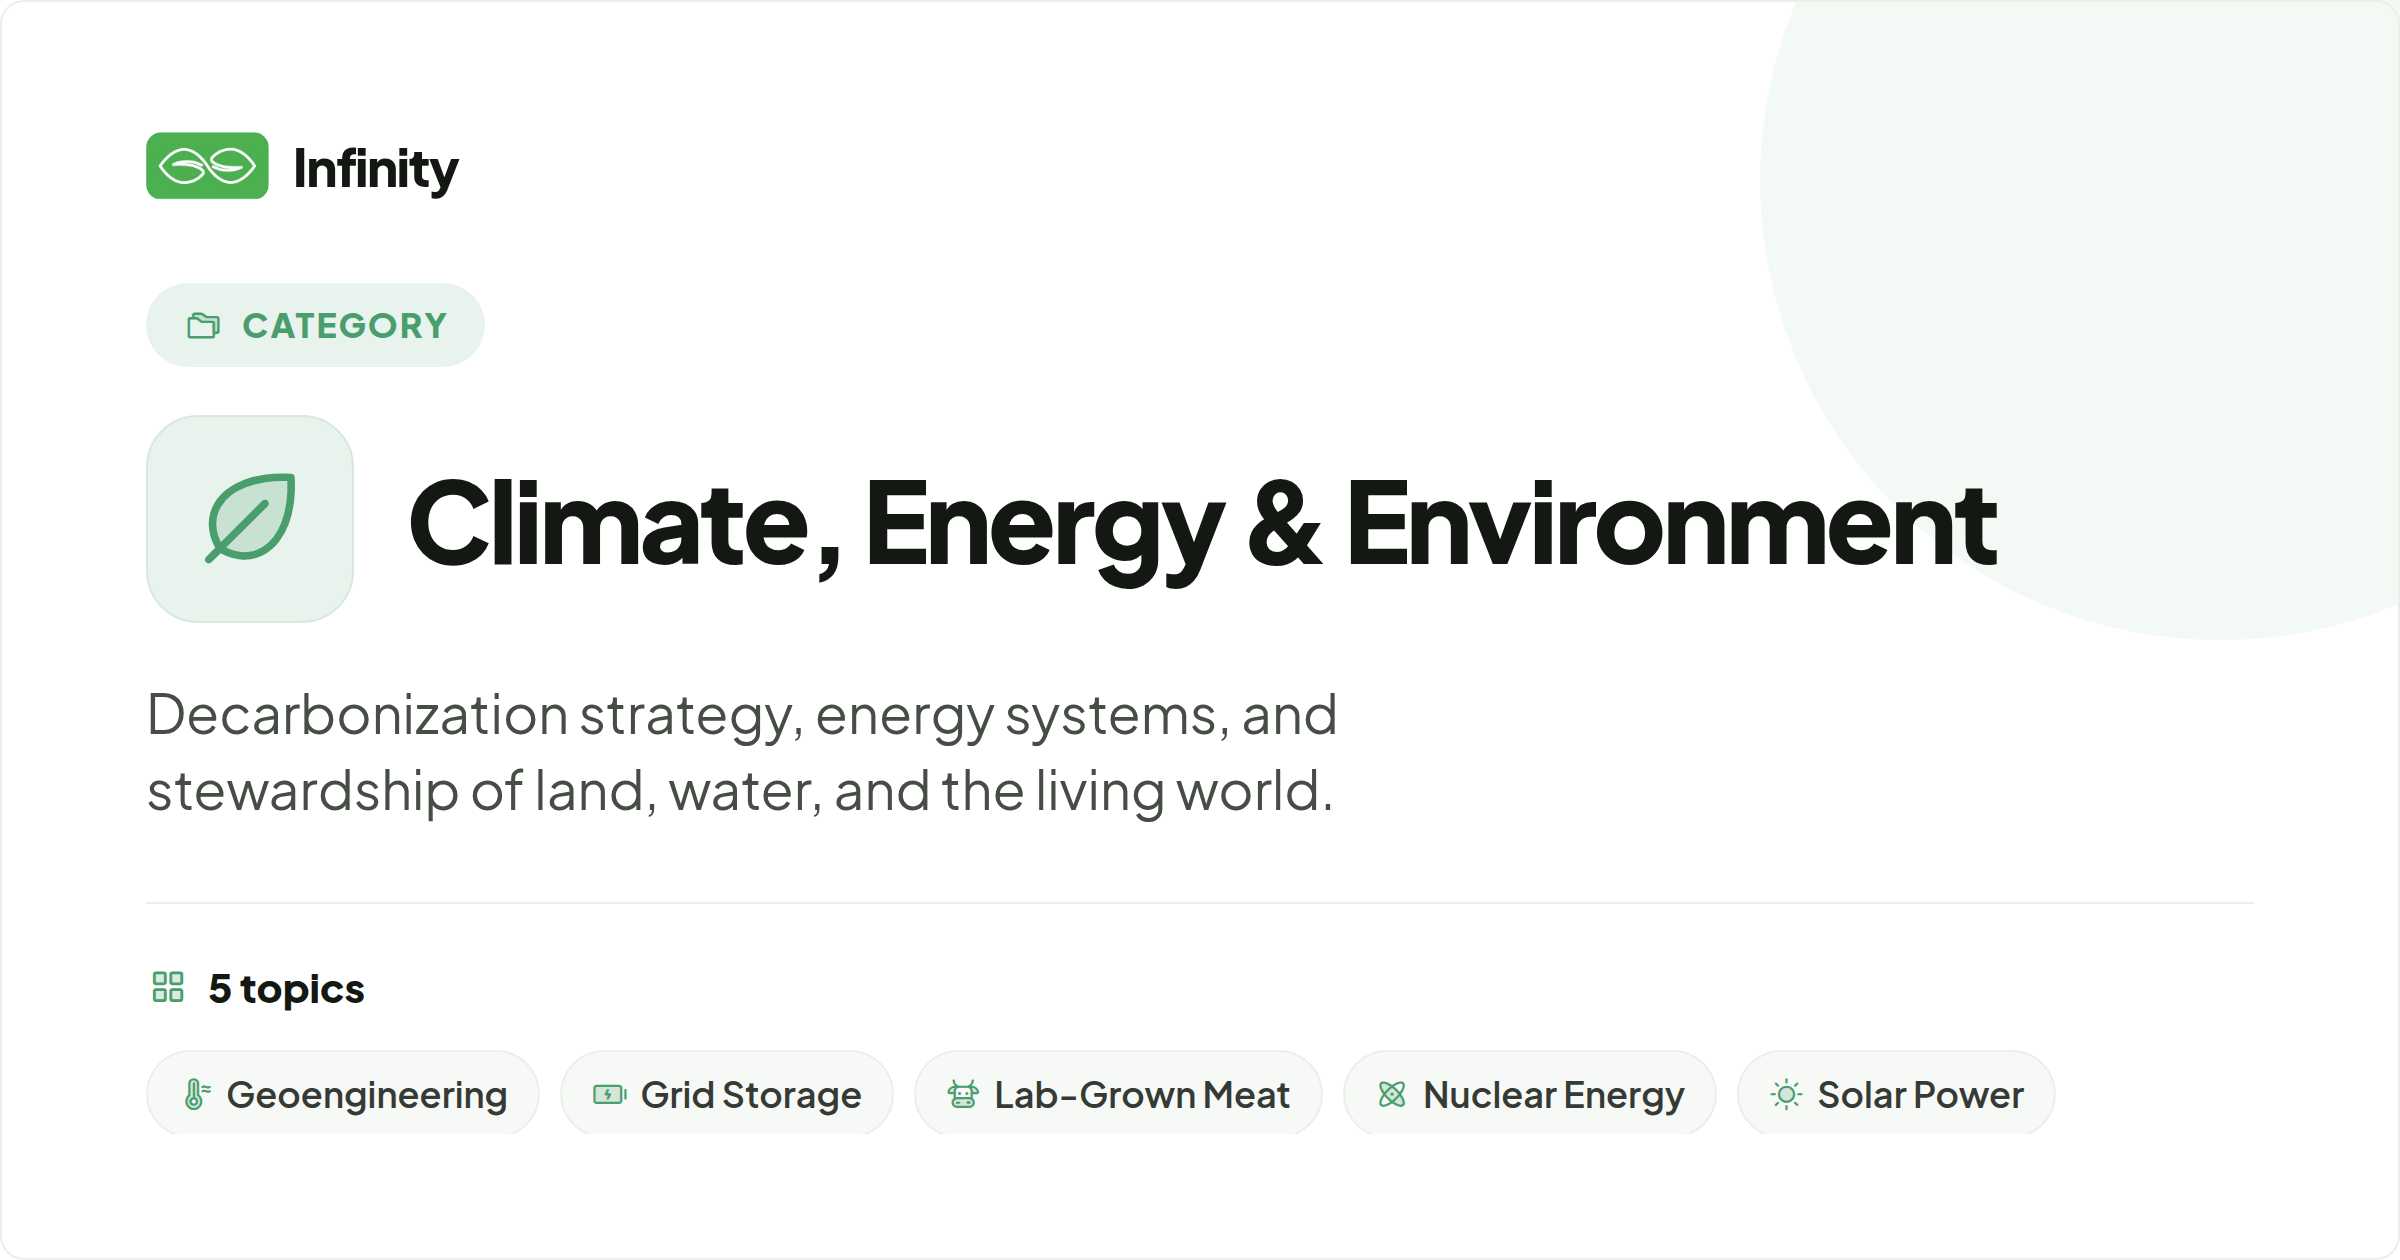
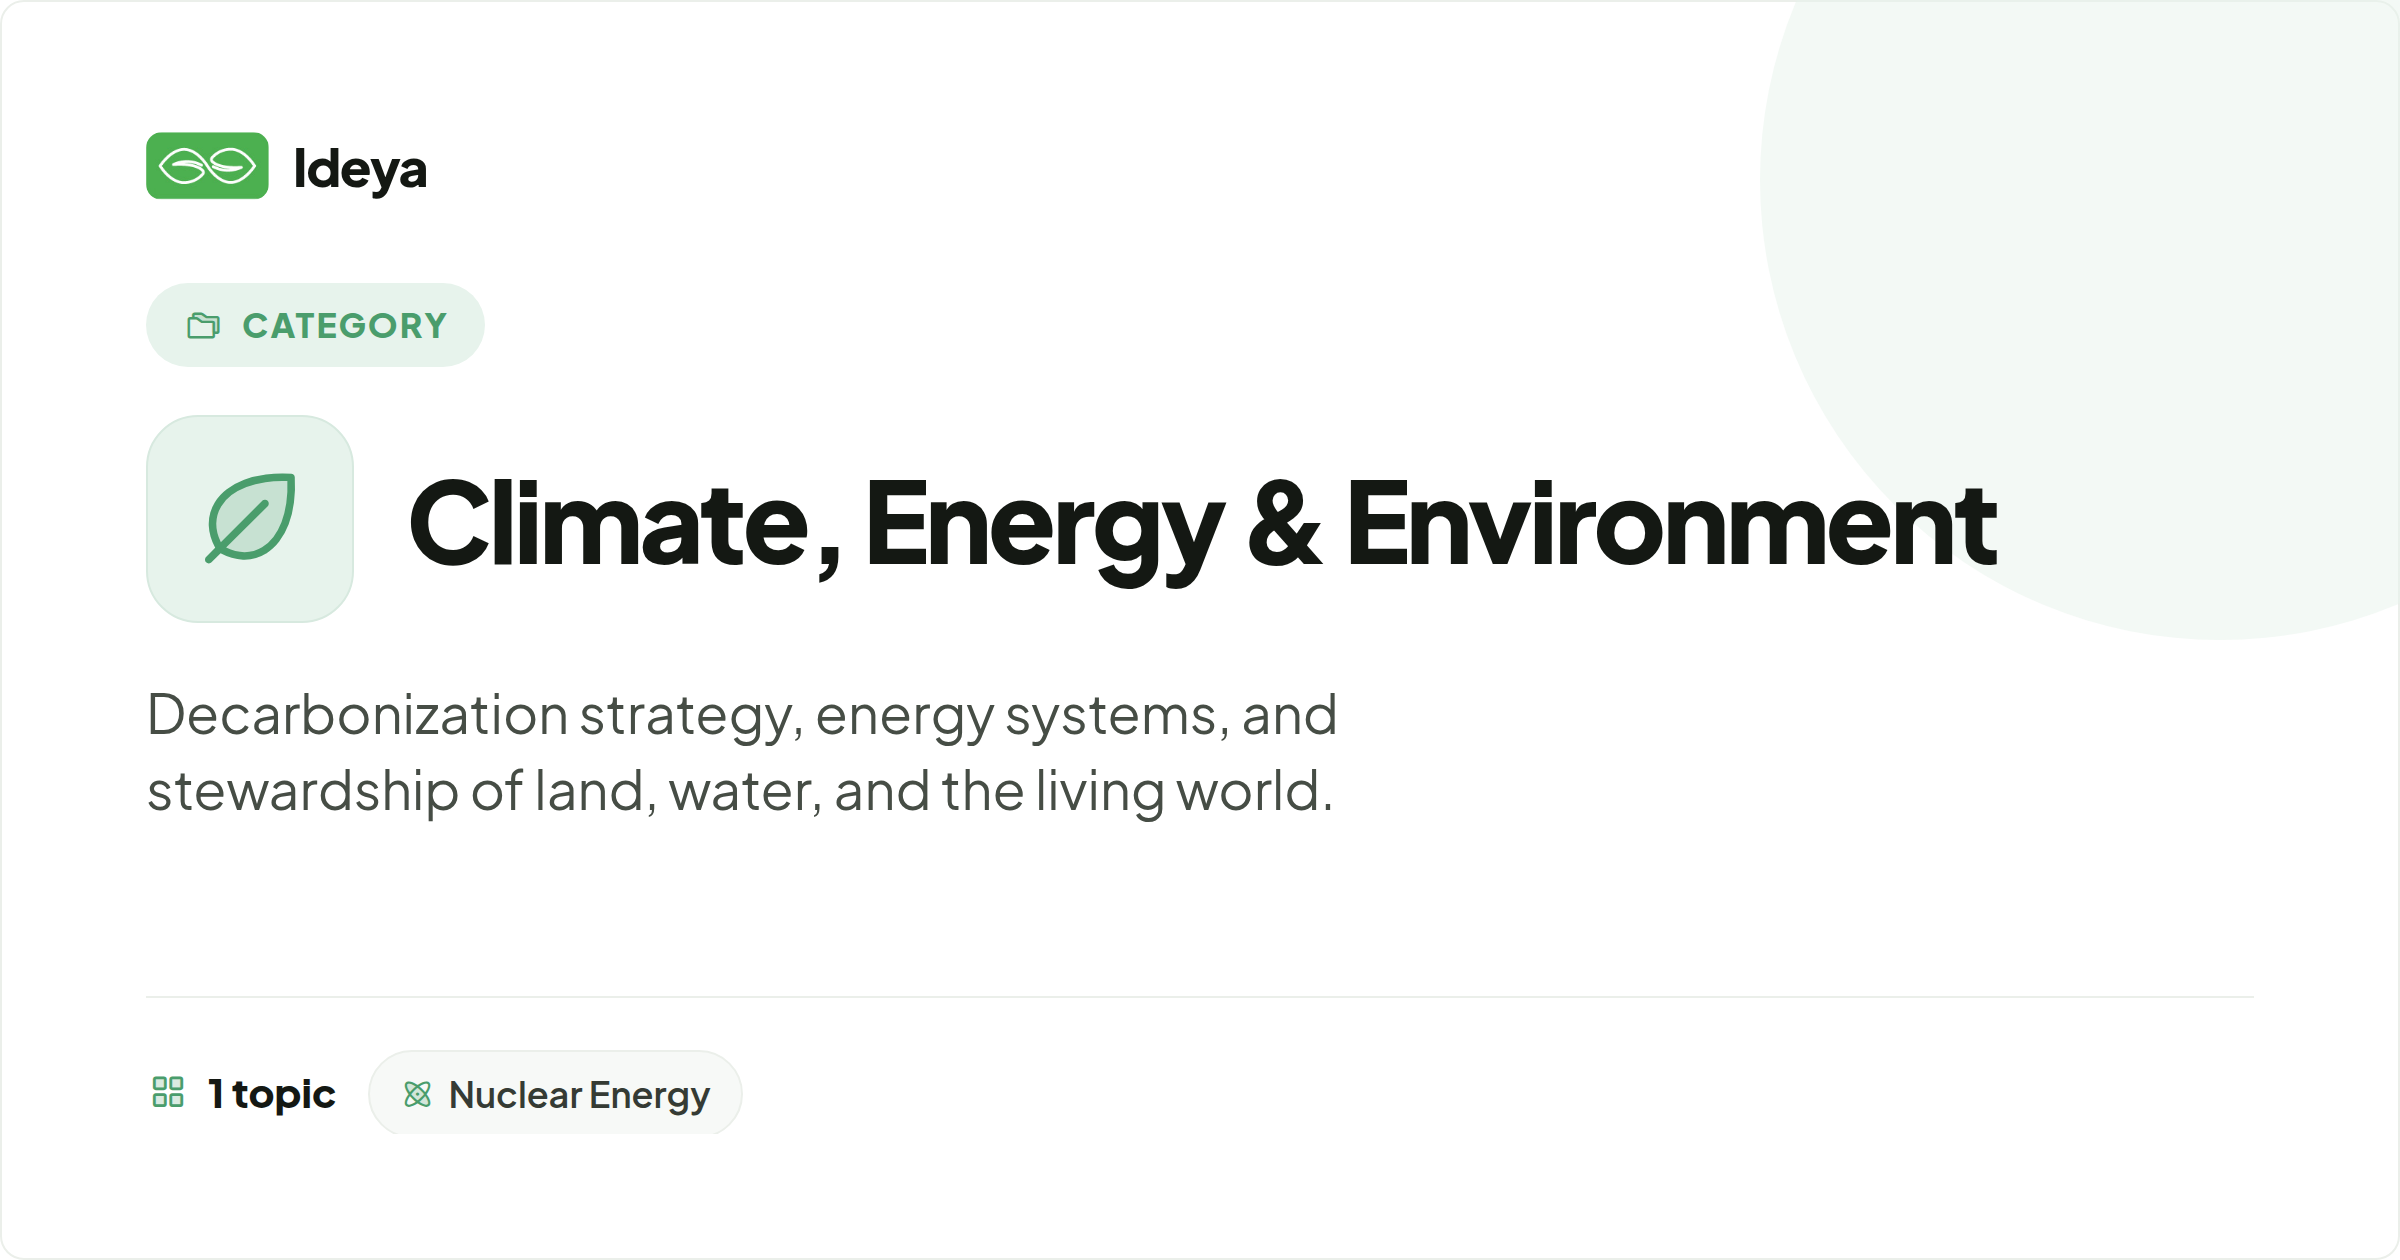
Rename site Infinity Project -> Ideya; bake real domains (ideya1.org primary)
- Text-only swap (logo + fonts unchanged): titles, og:site_name/og_title, nav/share/poster wordmarks, home prose, unfurl preview domain
- Regenerate social cards (og/sq/pt x2 topics), 9 category cards, and the nuclear poster - QR + URL footer now encode https://ideya1.org (clears the print blocker)
- DEPLOY.md + .env.example: real hosts (ideya1.org/.com + www), .com 301s to .org at the proxy layer

diff --git a/templates/topics/home.html b/templates/topics/home.html
@@ -1,7 +1,7 @@
 {% extends "base.html" %}
 {% load static %}
 
-{% block title %}Infinity{% endblock %}
+{% block title %}Ideya{% endblock %}
 
 {% block content %}
 <div class="wrap">
@@ -60,7 +60,7 @@
   <section class="purpose" id="about">
     <span class="kicker"><i class="ph-duotone ph-infinity"></i>The project</span>
     <h1>Make the shape of hard issues legible.</h1>
-    <p class="lead">The Infinity Project is an atlas of humanity's hardest debates — existential risk, governance, economics, ethics. Each topic lays out the shared facts, the strongest case for every position, and the crux where the disagreement actually lives — so you can find where you stand, and why.</p>
+    <p class="lead">Ideya is an atlas of humanity's hardest debates — existential risk, governance, economics, ethics. Each topic lays out the shared facts, the strongest case for every position, and the crux where the disagreement actually lives — so you can find where you stand, and why.</p>
 
     <div class="wwh">
       <div class="wwh-card">
@@ -71,7 +71,7 @@
       <div class="wwh-card">
         <div class="num">02</div><div class="wi"><i class="ph-duotone ph-compass"></i></div>
         <h3>Why it exists</h3>
-        <p>Most coverage flattens hard issues into verdicts or drowns them in takes. The Infinity Project takes no side: every position gets its strongest case, in its own voice — you can't honestly disagree with an argument you've only met at its weakest.</p>
+        <p>Most coverage flattens hard issues into verdicts or drowns them in takes. Ideya takes no side: every position gets its strongest case, in its own voice — you can't honestly disagree with an argument you've only met at its weakest.</p>
       </div>
       <div class="wwh-card">
         <div class="num">03</div><div class="wi"><i class="ph-duotone ph-stack"></i></div>

diff --git a/templates/base.html b/templates/base.html
@@ -3,13 +3,13 @@
 <head>
   <meta charset="utf-8" />
   <meta name="viewport" content="width=device-width, initial-scale=1, viewport-fit=cover" />
-  <title>{% block title %}Infinity{% endblock %}</title>
+  <title>{% block title %}Ideya{% endblock %}</title>
   <meta name="description" content="{% block description %}A curated, navigable atlas of hard human issues — a visual wiki between an encyclopedia and a debate platform.{% endblock %}" />
   <link rel="icon" href="{% static 'img/infinity-mark.png' %}" />
   <link rel="canonical" href="{{ request.scheme }}://{{ request.get_host }}{{ request.path }}" />
-  <meta property="og:site_name" content="Infinity" />
+  <meta property="og:site_name" content="Ideya" />
   <meta property="og:type" content="{% block og_type %}website{% endblock %}" />
-  <meta property="og:title" content="{% block og_title %}Infinity{% endblock %}" />
+  <meta property="og:title" content="{% block og_title %}Ideya{% endblock %}" />
   <meta property="og:description" content="{% block og_description %}A curated, navigable atlas of hard human issues — what each one is, where the disagreement sits, and how to act.{% endblock %}" />
   <meta property="og:url" content="{{ request.scheme }}://{{ request.get_host }}{{ request.path }}" />
   {% block og_image %}
@@ -45,7 +45,7 @@
     <div class="nav-in">
       <a class="brand" href="{% url 'topics:home' %}">
         <img class="mark" src="{% static 'img/infinity-mark.png' %}" alt="Infinity" />
-        <span class="wm">Infinity</span>
+        <span class="wm">Ideya</span>
       </a>
       <button class="search" type="button" @click="$store.search.open = true" aria-label="Search topics and categories">
         <i class="ph-duotone ph-magnifying-glass"></i>

diff --git a/templates/topics/components/_share_card.html b/templates/topics/components/_share_card.html
@@ -1,6 +1,6 @@
 {% load static %}{% comment %}Inner share-card content. Expects topic, cc, positions, crux.{% endcomment %}
 <div class="lt">
-  <div class="brand"><img class="mark" src="{% static 'img/infinity-mark.png' %}" alt="" /><span class="wm">Infinity</span></div>
+  <div class="brand"><img class="mark" src="{% static 'img/infinity-mark.png' %}" alt="" /><span class="wm">Ideya</span></div>
   {% if cc %}<span class="cat"><i class="ph-duotone ph-{{ cc.icon|default:'squares-four' }}"></i>{{ cc.name }}</span>{% endif %}
   <div class="ttlrow">
     {% if topic.primary_art %}<span class="ticon tart"><img src="{% static topic.primary_art %}" alt="" /></span>

diff --git a/templates/topics/detail.html b/templates/topics/detail.html
@@ -1,10 +1,10 @@
 {% extends "base.html" %}
 {% load infinity_extras static %}
 
-{% block title %}{{ topic.title }} — Infinity{% endblock %}
+{% block title %}{{ topic.title }} — Ideya{% endblock %}
 {% block description %}{{ topic.summary }}{% endblock %}
 {% block og_type %}article{% endblock %}
-{% block og_title %}{{ topic.title }} — Infinity{% endblock %}
+{% block og_title %}{{ topic.title }} — Ideya{% endblock %}
 {% block og_description %}{{ topic.summary }}{% endblock %}
 {% block og_image %}{% if topic.social_card %}
   <meta property="og:image" content="{{ request.scheme }}://{{ request.get_host }}{% static topic.social_card %}" />

diff --git a/templates/topics/category_share.html b/templates/topics/category_share.html
@@ -35,7 +35,7 @@
 </head>
 <body{% if render_card %} class="card-only"{% endif %}>
   <div class="card" style="--cat: {{ category.color_var }}; --cat-tint: {{ category.tint_var }};">
-    <div class="brand"><img class="mark" src="{% static 'img/infinity-mark.png' %}" alt="" /><span class="wm">Infinity</span></div>
+    <div class="brand"><img class="mark" src="{% static 'img/infinity-mark.png' %}" alt="" /><span class="wm">Ideya</span></div>
     <span class="kicker"><i class="ph-duotone ph-folders"></i>Category</span>
     <div class="head">
       <span class="cicon"><i class="ph-duotone ph-{{ category.icon|default:'squares-four' }}"></i></span>

diff --git a/templates/topics/category.html b/templates/topics/category.html
@@ -1,9 +1,9 @@
 {% extends "base.html" %}
 {% load static %}
 
-{% block title %}{{ category.name }} — Infinity{% endblock %}
+{% block title %}{{ category.name }} — Ideya{% endblock %}
 {% block description %}{{ category.description }}{% endblock %}
-{% block og_title %}{{ category.name }} — Infinity{% endblock %}
+{% block og_title %}{{ category.name }} — Ideya{% endblock %}
 {% block og_description %}{{ category.description }}{% endblock %}
 {% block og_image %}{% if category.social_card %}
   <meta property="og:image" content="{{ request.scheme }}://{{ request.get_host }}{% static category.social_card %}" />

diff --git a/templates/500.html b/templates/500.html
@@ -5,7 +5,7 @@ processors, so this page depends on nothing that could itself fail.{% endcomment
 <head>
   <meta charset="utf-8" />
   <meta name="viewport" content="width=device-width, initial-scale=1" />
-  <title>Something broke — Infinity</title>
+  <title>Something broke — Ideya</title>
   <style>
     body { margin: 0; min-height: 100vh; display: grid; place-items: center;
            font-family: system-ui, sans-serif; background: #f7f9f7; color: #14160f; }

diff --git a/templates/topics/poster.html b/templates/topics/poster.html
@@ -109,7 +109,7 @@
 <body>
   <div class="poster">
     <div class="hero">
-      <div class="brand"><img class="mark" src="{% static 'img/infinity-mark.png' %}" alt="" /><span class="wm">Infinity</span></div>
+      <div class="brand"><img class="mark" src="{% static 'img/infinity-mark.png' %}" alt="" /><span class="wm">Ideya</span></div>
       <div class="herorow">
         <div class="herotext">
           {% with cc=topic.color_category %}

diff --git a/templates/topics/share.html b/templates/topics/share.html
@@ -93,8 +93,8 @@
   <div class="uf-card">
     <img src="{% if topic.social_card %}{% static topic.social_card %}{% endif %}" alt="" />
     <div class="uf-meta">
-      <div class="uf-dom">infinity</div>
-      <div class="uf-ttl">{{ topic.title }} — Infinity</div>
+      <div class="uf-dom">ideya1.org</div>
+      <div class="uf-ttl">{{ topic.title }} — Ideya</div>
       <p class="uf-desc">{{ topic.summary }}</p>
     </div>
   </div>

diff --git a/templates/404.html b/templates/404.html
@@ -1,6 +1,6 @@
 {% extends "base.html" %}
 
-{% block title %}Not on the map — Infinity{% endblock %}
+{% block title %}Not on the map — Ideya{% endblock %}
 
 {% block content %}
 <div class="wrap"><div class="errpage">

diff --git a/templates/accounts/password_change.html b/templates/accounts/password_change.html
@@ -1,6 +1,6 @@
 {% extends "base.html" %}
 
-{% block title %}Change password — Infinity{% endblock %}
+{% block title %}Change password — Ideya{% endblock %}
 
 {% block content %}
 <div class="wrap"><div class="auth">

diff --git a/templates/accounts/settings.html b/templates/accounts/settings.html
@@ -1,6 +1,6 @@
 {% extends "base.html" %}
 
-{% block title %}Account — Infinity{% endblock %}
+{% block title %}Account — Ideya{% endblock %}
 
 {% block content %}
 <div class="wrap"><div class="auth auth-wide">
